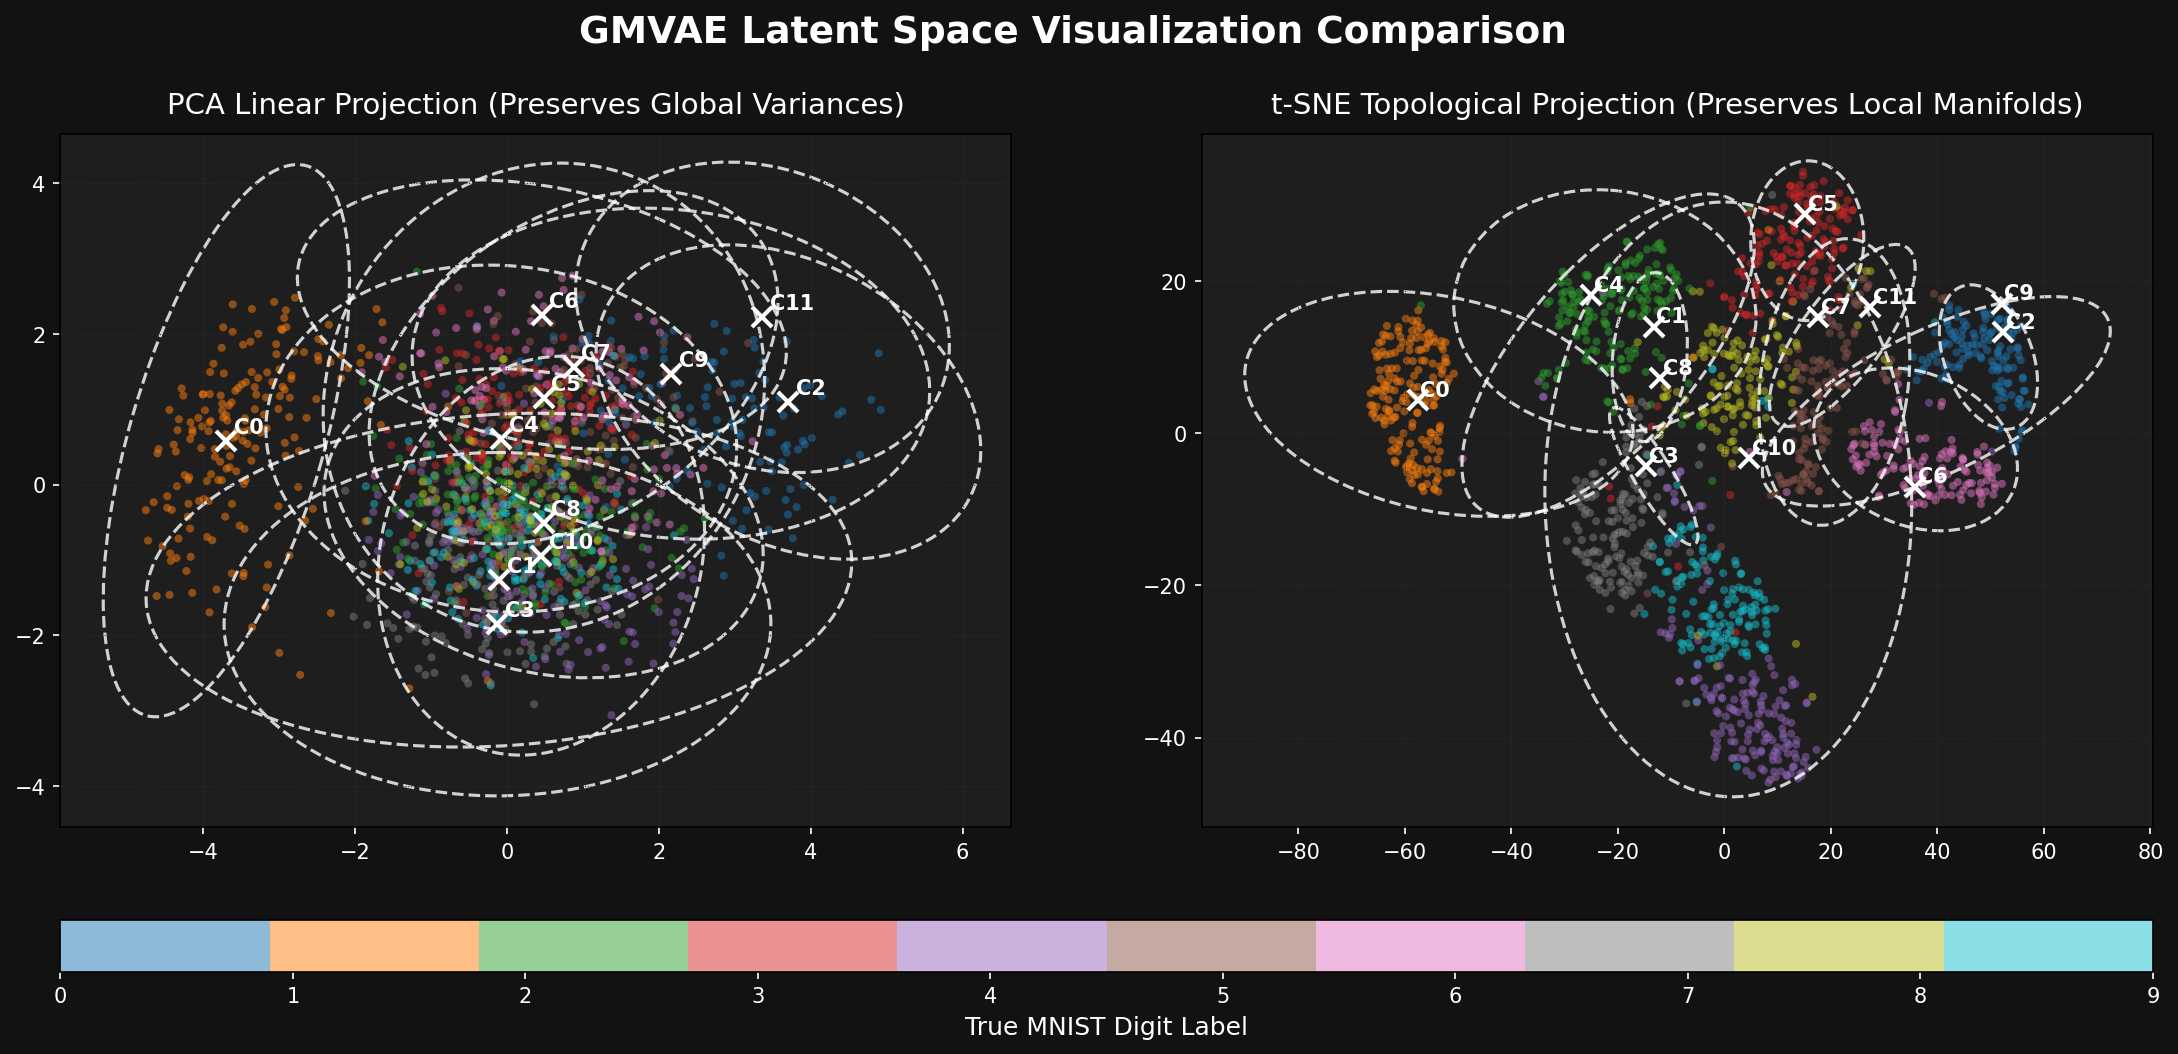
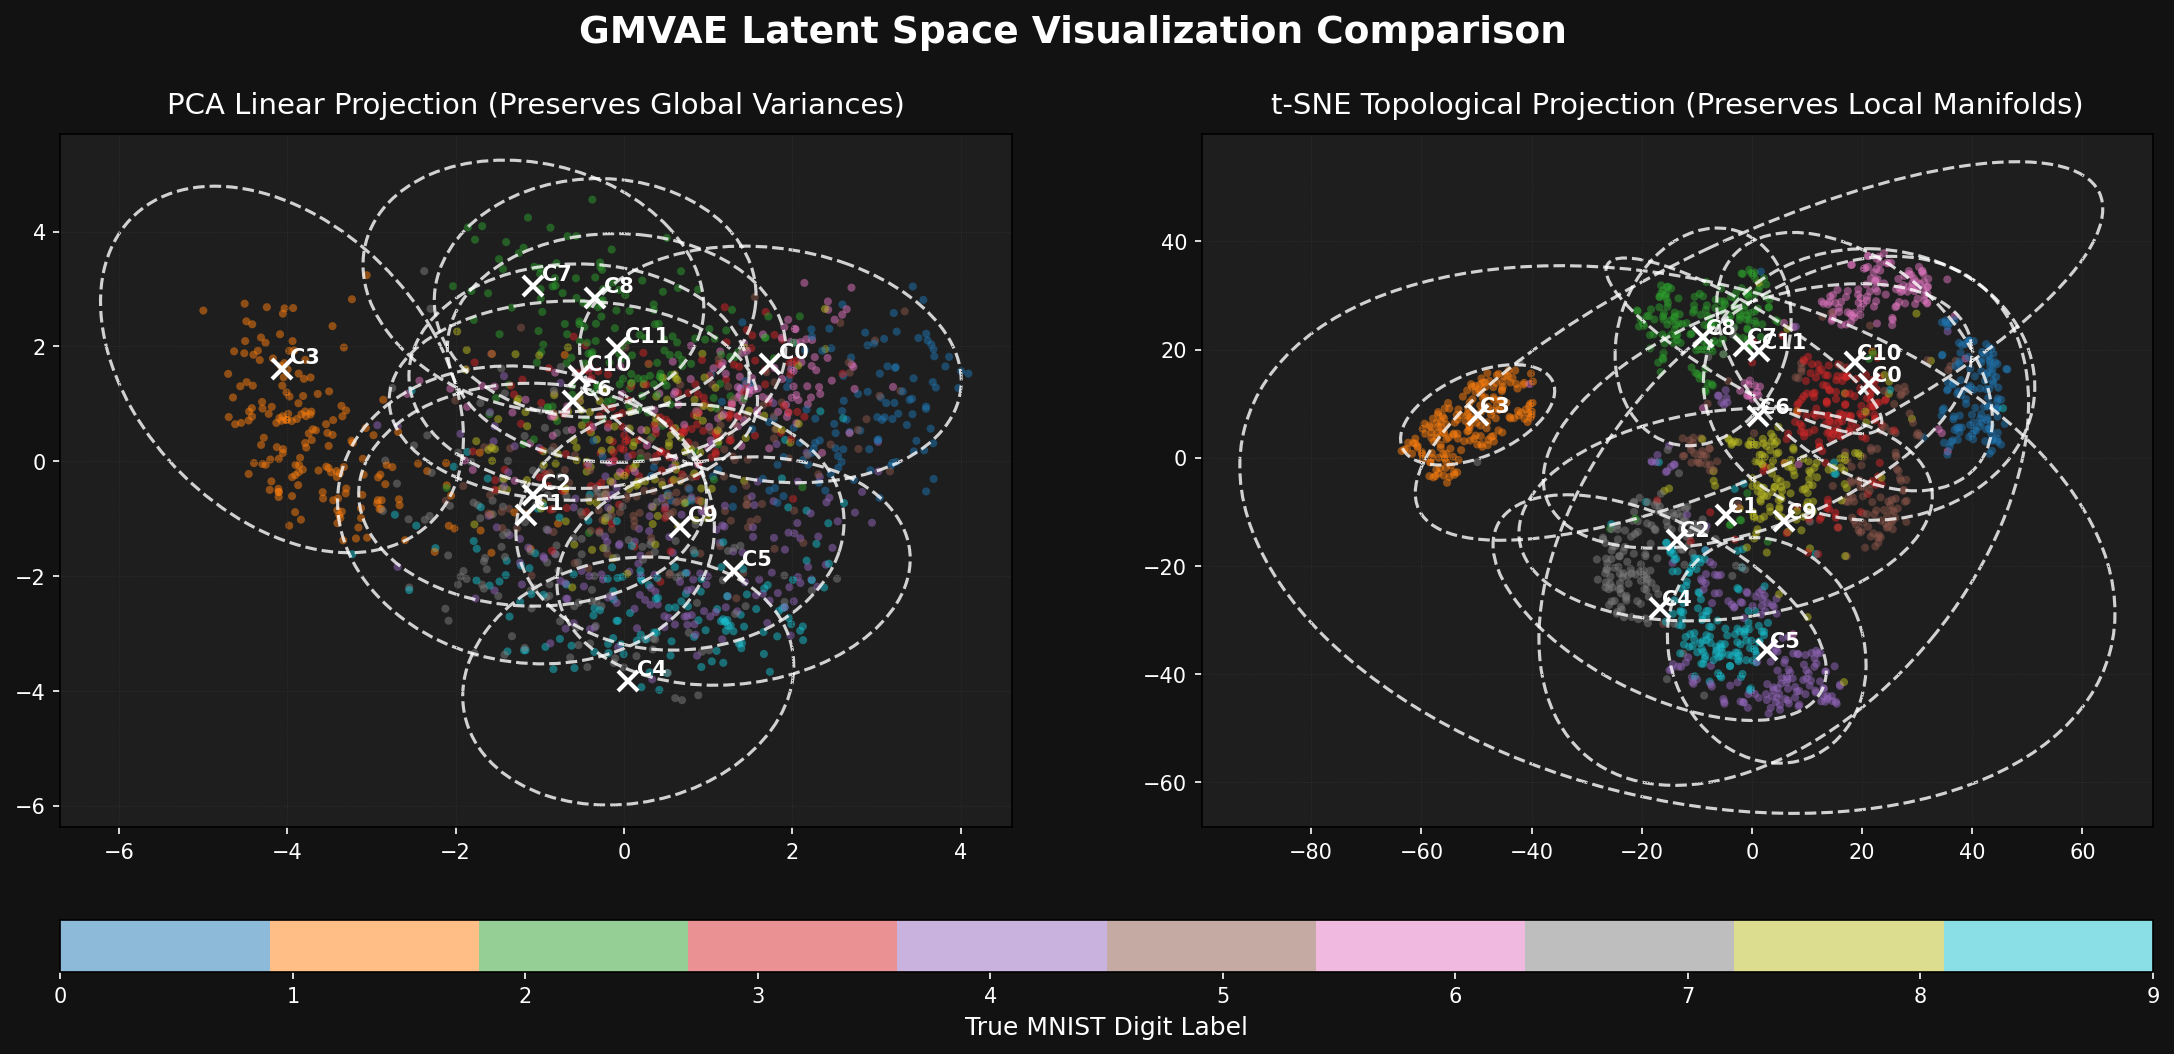
fix: align GMM centroid markers and labels with empirical means in t-SNE plot

diff --git a/visualize_tsne.py b/visualize_tsne.py
@@ -132,15 +132,16 @@ def main():
     )
     
     for k in range(best_K):
-        ax2.plot(means_tsne[k, 0], means_tsne[k, 1], 'x', color='white', markersize=10, markeredgewidth=2)
-        ax2.text(means_tsne[k, 0] + 0.5, means_tsne[k, 1] + 0.5, f"C{k}", color='white', fontsize=10, fontweight='bold')
-        
         # Calculate empirical 2D covariance of mapped points assigned to cluster k
         cluster_points = z_tsne[predicted_clusters == k]
         if len(cluster_points) > 1:
             # Empirical 2D mean and covariance
             emp_mean = np.mean(cluster_points, axis=0)
             emp_cov = np.cov(cluster_points.T)
+            
+            # Plot centroid marker and text at emp_mean
+            ax2.plot(emp_mean[0], emp_mean[1], 'x', color='white', markersize=10, markeredgewidth=2)
+            ax2.text(emp_mean[0] + 0.5, emp_mean[1] + 0.5, f"C{k}", color='white', fontsize=10, fontweight='bold')
             
             # Eigendecomposition of empirical 2D covariance
             eigenvalues, eigenvectors = np.linalg.eigh(emp_cov)
